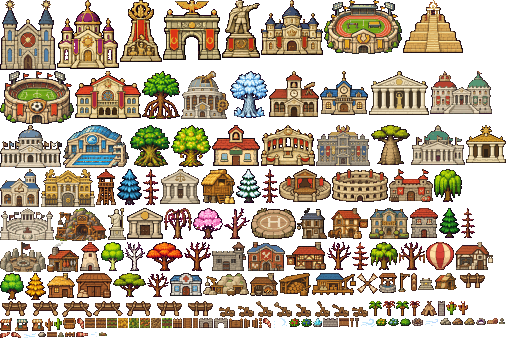
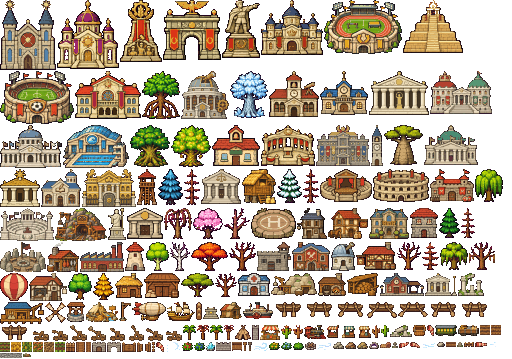
Sprites de la hoja 13: estación, fábrica, torre del reloj, observatorio, embajada, ruinas, tren, dirigible, galeón y vapor (medio hundidos, con olas y estela), carreteras de adoquines, puesto de feria y campamento minero; el humo lo pone el juego

diff --git a/js/arte_mapa.js b/js/arte_mapa.js
@@ -1,2 +1,2 @@
 // Forja de Mundos · Mapa del atlas de arte (generado: no editar a mano). clave: [x, y, ancho, alto, ancla x, llamas?]
-const ART_MAP = {"house:hut":[47,273,28,25,14],"house:piedra":[410,208,28,30,14],"well:pozo":[379,273,18,20,9],"store:almacen":[76,273,36,25,18],"tower:torre":[96,169,20,36,10],"hall:ayuntamiento":[320,71,48,44,24],"market:mercado":[0,318,44,13,22],"bank:banco":[127,208,36,31,18],"hospital:hospital":[170,273,32,23,16],"school:escuela":[212,125,48,41,24],"tavern:taberna":[286,242,40,28,20],"theater:teatro":[279,169,52,33,26],"coliseum:coliseo":[332,169,56,33,28],"barracks:cuartel":[389,169,44,33,22],"tradehall:lonja":[312,273,44,22,22],"quarry:cantera":[203,273,46,23,23],"temple:templo":[466,125,40,38,20],"obelisk:monumento":[108,208,18,32,9],"cathedral:catedral":[0,0,56,70,28],"cathedral:panteon":[369,71,60,44,30],"wonder:republica":[261,125,54,41,27],"wonder:monarquia":[261,0,62,55,31],"wonder:dictadura":[222,0,38,58,19],"wonder:comunismo":[120,0,42,62,21],"wonder:fascismo":[163,0,58,60,29],"wonder:socialismo":[75,71,66,48,33],"wonder:teocracia":[57,0,62,69,31],"altar:altar":[418,273,16,17,8,[5,0,6,6]],"cathedral:zigurat":[403,0,60,53,30,[24,1,12,13]],"forge:herreria":[250,273,28,23,14,[14,17,9,3]],"mill:molino":[80,242,20,29,10],"mill:aspas":[357,273,21,21,10],"oak:forest":[0,273,24,27,12],"oak:forest:bare":[327,242,24,28,12],"pine:pine":[439,208,21,30,10],"pine:pine:bare":[461,208,14,30,7],"pine:snow":[236,169,25,34,12],"pine:snow:bare":[262,169,16,34,8],"acacia:dry":[113,273,33,24,16],"acacia:dry:bare":[147,273,22,24,11],"birch:birch":[101,242,23,29,11],"birch:birch:bare":[125,242,20,29,10],"pine:blue":[117,169,25,36,12],"pine:blue:bare":[143,169,16,36,8],"willow:swamp":[434,169,28,33,14],"willow:swamp:bare":[164,208,28,31,14],"palm:palm":[369,301,13,15,6],"palm:palm:bare":[383,301,12,15,6],"palm:coco":[396,301,13,15,6],"palm:coco:bare":[410,301,10,15,5],"oak:cherry":[193,208,30,31,15],"oak:cherry:bare":[224,208,26,31,13],"pine:autumn":[25,273,21,27,10],"pine:autumn:bare":[352,242,17,28,8],"acacia:sunset":[146,242,37,29,18],"acacia:sunset:bare":[184,242,27,29,13],"willow:moss":[370,242,28,28,14],"willow:moss:bare":[399,242,26,28,13],"cactus:cactus":[54,318,8,12,4],"cactus:cactus:bare":[45,318,8,13,4],"cactus:bloom":[446,301,11,14,5],"cactus:bloom:bare":[458,301,10,14,5],"ancient:elder":[130,125,40,42,20],"ancient:frost":[230,71,38,47,19],"ancient:baobab":[371,125,39,40,19],"ancient:mangrove":[142,71,38,48,19],"ancient:life":[171,125,40,42,20],"bush:red":[289,318,11,9,5],"bush:blueb":[301,318,11,9,5],"bush:goldb":[376,318,11,8,5],"bush:moon":[388,318,11,8,5],"bush:empty":[400,318,11,8,5],"rock:stone":[38,332,8,5,4],"big:stone":[440,318,11,7,5],"ore:iron":[452,318,11,7,5],"ore:gold":[464,318,11,7,5],"gem:amethyst":[476,318,10,7,5],"gem:mana":[313,318,9,9,4],"fire:camp":[412,318,11,8,5],"camp:tienda":[421,301,16,15,8],"camp:estera":[487,318,11,6,5],"boat:0":[458,273,30,16,15],"boat:1":[0,301,30,16,15],"boat:2":[31,301,30,16,15],"boat:3":[62,301,30,16,15],"boat:4":[93,301,30,16,15],"boat:5":[124,301,30,16,15],"boat:6":[155,301,30,16,15],"boat:7":[186,301,30,16,15],"catapult:0":[217,301,18,16,9],"catapult:1":[236,301,18,16,9],"catapult:2":[255,301,18,16,9],"catapult:3":[274,301,18,16,9],"catapult:4":[293,301,18,16,9],"catapult:5":[312,301,18,16,9],"catapult:6":[331,301,18,16,9],"catapult:7":[350,301,18,16,9],"tex:arada":[85,318,10,10,5],"tex:sembrado":[96,318,10,10,5],"tex:brotes":[107,318,10,10,5],"tex:trigo":[118,318,10,10,5],"tex:maiz":[129,318,10,10,5],"tex:mijo":[140,318,10,10,5],"tex:muerta":[151,318,10,10,5],"tex:huerta":[162,318,10,10,5],"tex:empalizada_h":[173,318,9,10,4],"tex:empalizada_v":[411,273,6,18,3],"tex:piedra_h":[323,318,15,9,7],"tex:piedra_v":[438,301,7,15,3],"tex:puente_h":[339,318,10,9,5],"tex:puente_v":[183,318,9,10,4],"tex:puente_h5":[47,332,10,5,5],"tex:puente_v5":[193,318,5,10,2],"gate:piedra":[199,318,14,10,7],"gate:piedra_abierta":[214,318,14,10,7],"gate:madera":[229,318,14,10,7],"gate:madera_abierta":[244,318,14,10,7],"tumba:lapida":[58,332,6,5,3],"tumba:flores":[99,332,8,4,4],"tumba:estela":[499,318,6,6,3],"tex:valla_h":[65,332,10,5,5],"tex:valla_v":[259,318,3,10,1],"antorcha:encendida":[350,318,4,9,2],"antorcha:apagada":[355,318,4,9,2],"balloon:globo":[426,242,28,28,14],"balloon:cesta":[63,318,13,11,6],"aero:pista":[251,208,45,31,22],"aero:palo":[398,273,12,19,2],"sock:0":[76,332,12,5,0],"sock:1":[0,332,10,6,0],"sock:2":[11,332,10,6,0],"sock:3":[263,318,8,10,0],"sock:4":[77,318,7,11,0],"wind:0":[89,332,9,5,4],"wind:1":[22,332,15,6,7],"wind:2":[424,318,15,8,7],"wind:3":[360,318,15,9,7],"wind:4":[272,318,16,10,8],"court:tribunal":[160,169,40,35,20],"jail:carcel":[212,242,34,29,17],"press:imprenta":[455,242,38,28,19],"union:sindicato":[247,242,38,29,19],"parliament:parlamento":[411,125,54,40,27],"academy:academia":[0,169,40,38,20],"wonder:democracia":[0,208,54,33,27],"wonder:partitocracia":[316,125,54,41,27],"wonder:monarquia_parlamentaria":[430,71,62,43,31],"wonder:oligarquia":[41,169,54,38,27],"wonder:tecnocracia":[181,71,48,48,24],"wonder:anarquia":[0,242,46,30,23],"mine:mina":[55,208,52,33,26],"university:universidad":[269,71,50,46,25],"council:consejo":[0,125,62,43,31],"spy:espias":[297,208,30,31,15],"granary:granero":[201,169,34,35,17],"smoke:ahumadero":[47,242,32,30,16],"woodshed:lenera":[279,273,32,23,16],"post:postas":[328,208,40,31,20],"house:mansion":[369,208,40,31,20],"house:chabola":[435,273,22,17,11],"sport:futbol":[0,71,74,53,37],"sport:natacion":[63,125,66,43,33],"sport:atletismo":[324,0,78,54,39]};
+const ART_MAP = {"house:hut":[115,273,28,25,14],"house:piedra":[410,208,28,30,14],"well:pozo":[67,302,18,20,9],"store:almacen":[144,273,36,25,18],"tower:torre":[137,169,20,36,10],"hall:ayuntamiento":[320,71,48,44,24],"market:mercado":[327,325,44,13,22],"bank:banco":[127,208,36,31,18],"hospital:hospital":[238,273,32,23,16],"school:escuela":[212,125,48,41,24],"tavern:taberna":[356,242,40,28,20],"theater:teatro":[320,169,52,33,26],"coliseum:coliseo":[373,169,56,33,28],"barracks:cuartel":[430,169,44,33,22],"tradehall:lonja":[0,302,44,22,22],"quarry:cantera":[271,273,46,23,23],"temple:templo":[0,169,40,38,20],"obelisk:monumento":[108,208,18,32,9],"cathedral:catedral":[0,0,56,70,28],"cathedral:panteon":[369,71,60,44,30],"wonder:republica":[261,125,54,41,27],"wonder:monarquia":[261,0,62,55,31],"wonder:dictadura":[222,0,38,58,19],"wonder:comunismo":[120,0,42,62,21],"wonder:fascismo":[163,0,58,60,29],"wonder:socialismo":[75,71,66,48,33],"wonder:teocracia":[57,0,62,69,31],"altar:altar":[203,302,16,17,8,[5,0,6,6]],"cathedral:zigurat":[403,0,60,53,30,[24,1,12,13]],"forge:herreria":[318,273,28,23,14,[14,17,9,3]],"mill:molino":[125,242,20,29,10],"mill:aspas":[45,302,21,21,10],"oak:forest":[68,273,24,27,12],"oak:forest:bare":[397,242,24,28,12],"pine:pine":[439,208,21,30,10],"pine:pine:bare":[461,208,14,30,7],"pine:snow":[277,169,25,34,12],"pine:snow:bare":[303,169,16,34,8],"acacia:dry":[181,273,33,24,16],"acacia:dry:bare":[215,273,22,24,11],"birch:birch":[146,242,23,29,11],"birch:birch:bare":[170,242,20,29,10],"pine:blue":[158,169,25,36,12],"pine:blue:bare":[184,169,16,36,8],"willow:swamp":[475,169,28,33,14],"willow:swamp:bare":[164,208,28,31,14],"palm:palm":[183,325,13,15,6],"palm:palm:bare":[197,325,12,15,6],"palm:coco":[210,325,13,15,6],"palm:coco:bare":[224,325,10,15,5],"oak:cherry":[193,208,30,31,15],"oak:cherry:bare":[224,208,26,31,13],"pine:autumn":[93,273,21,27,10],"pine:autumn:bare":[422,242,17,28,8],"acacia:sunset":[191,242,37,29,18],"acacia:sunset:bare":[229,242,27,29,13],"willow:moss":[440,242,28,28,14],"willow:moss:bare":[469,242,26,28,13],"cactus:cactus":[381,325,8,12,4],"cactus:cactus:bare":[372,325,8,13,4],"cactus:bloom":[281,325,11,14,5],"cactus:bloom:bare":[293,325,10,14,5],"ancient:elder":[130,125,40,42,20],"ancient:frost":[230,71,38,47,19],"ancient:baobab":[384,125,39,40,19],"ancient:mangrove":[142,71,38,48,19],"ancient:life":[171,125,40,42,20],"bush:red":[182,342,11,9,5],"bush:blueb":[194,342,11,9,5],"bush:goldb":[269,342,11,8,5],"bush:moon":[281,342,11,8,5],"bush:empty":[293,342,11,8,5],"rock:stone":[437,342,8,5,4],"big:stone":[333,342,11,7,5],"ore:iron":[345,342,11,7,5],"ore:gold":[357,342,11,7,5],"gem:amethyst":[369,342,10,7,5],"gem:mana":[206,342,9,9,4],"fire:camp":[305,342,11,8,5],"camp:tienda":[235,325,16,15,8],"camp:estera":[380,342,11,6,5],"boat:0":[274,302,30,16,15],"boat:1":[305,302,30,16,15],"boat:2":[336,302,30,16,15],"boat:3":[367,302,30,16,15],"boat:4":[398,302,30,16,15],"boat:5":[429,302,30,16,15],"boat:6":[460,302,30,16,15],"boat:7":[0,325,30,16,15],"catapult:0":[31,325,18,16,9],"catapult:1":[50,325,18,16,9],"catapult:2":[69,325,18,16,9],"catapult:3":[88,325,18,16,9],"catapult:4":[107,325,18,16,9],"catapult:5":[126,325,18,16,9],"catapult:6":[145,325,18,16,9],"catapult:7":[164,325,18,16,9],"tex:arada":[480,325,10,10,5],"tex:sembrado":[491,325,10,10,5],"tex:brotes":[0,342,10,10,5],"tex:trigo":[11,342,10,10,5],"tex:maiz":[22,342,10,10,5],"tex:mijo":[33,342,10,10,5],"tex:muerta":[44,342,10,10,5],"tex:huerta":[55,342,10,10,5],"tex:empalizada_h":[66,342,9,10,4],"tex:empalizada_v":[196,302,6,18,3],"tex:piedra_h":[216,342,15,9,7],"tex:piedra_v":[252,325,7,15,3],"tex:puente_h":[232,342,10,9,5],"tex:puente_v":[76,342,9,10,4],"tex:puente_h5":[446,342,10,5,5],"tex:puente_v5":[86,342,5,10,2],"gate:piedra":[92,342,14,10,7],"gate:piedra_abierta":[107,342,14,10,7],"gate:madera":[122,342,14,10,7],"gate:madera_abierta":[137,342,14,10,7],"tumba:lapida":[457,342,6,5,3],"tumba:flores":[23,353,8,4,4],"tumba:estela":[392,342,6,6,3],"tex:valla_h":[464,342,10,5,5],"tex:valla_v":[152,342,3,10,1],"antorcha:encendida":[243,342,4,9,2],"antorcha:apagada":[248,342,4,9,2],"balloon:globo":[0,273,28,28,14],"balloon:cesta":[413,325,13,11,6],"aero:pista":[251,208,45,31,22],"aero:palo":[119,302,12,19,2],"sock:0":[475,342,12,5,0],"sock:1":[399,342,10,6,0],"sock:2":[410,342,10,6,0],"sock:3":[156,342,8,10,0],"sock:4":[427,325,7,11,0],"wind:0":[488,342,9,5,4],"wind:1":[421,342,15,6,7],"wind:2":[317,342,15,8,7],"wind:3":[253,342,15,9,7],"wind:4":[165,342,16,10,8],"court:tribunal":[201,169,40,35,20],"jail:carcel":[257,242,34,29,17],"press:imprenta":[29,273,38,28,19],"union:sindicato":[292,242,38,29,19],"parliament:parlamento":[424,125,54,40,27],"academy:academia":[41,169,40,38,20],"wonder:democracia":[0,208,54,33,27],"wonder:partitocracia":[316,125,54,41,27],"wonder:monarquia_parlamentaria":[430,71,62,43,31],"wonder:oligarquia":[82,169,54,38,27],"wonder:tecnocracia":[181,71,48,48,24],"wonder:anarquia":[0,242,46,30,23],"mine:mina":[55,208,52,33,26],"university:universidad":[269,71,50,46,25],"council:consejo":[0,125,62,43,31],"spy:espias":[297,208,30,31,15],"granary:granero":[242,169,34,35,17],"smoke:ahumadero":[47,242,32,30,16],"woodshed:lenera":[347,273,32,23,16],"post:postas":[328,208,40,31,20],"house:mansion":[369,208,40,31,20],"house:chabola":[220,302,22,17,11],"sport:futbol":[0,71,74,53,37],"sport:natacion":[63,125,66,43,33],"sport:atletismo":[324,0,78,54,39],"station:estacion":[380,273,44,23,22],"factory:fabrica":[80,242,44,30,22],"clock:reloj":[371,125,12,41,6],"observatory:observatorio":[331,242,24,29,12],"embassy:embajada":[425,273,32,23,16],"ruin:ruinas_a":[458,273,26,23,13],"ruin:ruinas_b":[390,325,22,12,11],"train:locomotora":[304,325,22,14,11],"train:vagon_p":[435,325,22,11,11],"train:vagon_m":[458,325,21,11,10],"airship:dirigible":[132,302,34,19,17],"ship:galeon":[167,302,28,19,14],"ship:vapor":[243,302,30,17,15],"tex:carretera":[0,353,22,5,11],"fair:puesto":[260,325,20,15,10],"camp:oro":[86,302,32,20,16]};

diff --git a/index.html b/index.html
@@ -6,7 +6,7 @@
 <meta name="claude:viewport-fit-sides" content="cover">
 <link rel="preconnect" href="https://fonts.googleapis.com">
 <link rel="stylesheet" href="https://fonts.googleapis.com/css2?family=Pixelify+Sans:wght@400;600&family=Nunito+Sans:wght@400;600;700&display=swap">
-<link rel="stylesheet" href="css/estilo.css?v=202611231854">
+<link rel="stylesheet" href="css/estilo.css?v=202611231915">
 
 <div class="app">
   <section class="stage" id="stage">
@@ -180,67 +180,67 @@
 </div>
 
 <!-- El juego, en el orden en que se carga -->
-<script src="js/nucleo.js?v=202611231854"></script>
-<script src="js/mundo.js?v=202611231854"></script>
-<script src="js/vista.js?v=202611231854"></script>
-<script src="js/clima.js?v=202611231854"></script>
-<script src="js/fauna.js?v=202611231854"></script>
-<script src="js/desastres.js?v=202611231854"></script>
-<script src="js/mapas.js?v=202611231854"></script>
-<script src="js/humanos.js?v=202611231854"></script>
-<script src="js/partidas.js?v=202611231854"></script>
-<script src="js/vida.js?v=202611231854"></script>
-<script src="js/sociedad.js?v=202611231854"></script>
-<script src="js/impuestos.js?v=202611231854"></script>
-<script src="js/presupuestos.js?v=202611231854"></script>
-<script src="js/bolsa.js?v=202611231854"></script>
-<script src="js/vivienda.js?v=202611231854"></script>
-<script src="js/cartografia.js?v=202611231854"></script>
-<script src="js/convivencia.js?v=202611231854"></script>
-<script src="js/credos.js?v=202611231854"></script>
-<script src="js/tratados.js?v=202611231854"></script>
-<script src="js/globos.js?v=202611231854"></script>
-<script src="js/idiomas.js?v=202611231854"></script>
-<script src="js/regimenes.js?v=202611231854"></script>
-<script src="js/instituciones.js?v=202611231854"></script>
-<script src="js/monedas.js?v=202611231854"></script>
-<script src="js/minas.js?v=202611231854"></script>
-<script src="js/justicia.js?v=202611231854"></script>
-<script src="js/sindicatos.js?v=202611231854"></script>
-<script src="js/prensa.js?v=202611231854"></script>
-<script src="js/ciencia.js?v=202611231854"></script>
-<script src="js/consejo.js?v=202611231854"></script>
-<script src="js/espionaje.js?v=202611231854"></script>
-<script src="js/comercio.js?v=202611231854"></script>
-<script src="js/piratas.js?v=202611231854"></script>
-<script src="js/colonias.js?v=202611231854"></script>
-<script src="js/cultura.js?v=202611231854"></script>
-<script src="js/anexiones.js?v=202611231854"></script>
-<script src="js/lluvia.js?v=202611231854"></script>
-<script src="js/estaciones.js?v=202611231854"></script>
-<script src="js/bandidos.js?v=202611231854"></script>
-<script src="js/riqueza.js?v=202611231854"></script>
-<script src="js/noticias.js?v=202611231854"></script>
-<script src="js/defensa.js?v=202611231854"></script>
-<script src="js/trabajo.js?v=202611231854"></script>
-<script src="js/arte_mapa.js?v=202611231854"></script>
-<script src="js/arte.js?v=202611231854"></script>
-<script src="js/vegetacion.js?v=202611231854"></script>
-<script src="js/aldeanos.js?v=202611231854"></script>
-<script src="js/sonido.js?v=202611231854"></script>
-<script src="js/interfaz.js?v=202611231854"></script>
-<script src="js/civilizacion.js?v=202611231854"></script>
-<script src="js/industria.js?v=202611231854"></script>
-<script src="js/ambiente.js?v=202611231854"></script>
-<script src="js/fama.js?v=202611231854"></script>
-<script src="js/guerra.js?v=202611231854"></script>
-<script src="js/rutas.js?v=202611231854"></script>
-<script src="js/rescate.js?v=202611231854"></script>
-<script src="js/deportes.js?v=202611231854"></script>
-<script src="js/leyes.js?v=202611231854"></script>
-<script src="js/volcanes.js?v=202611231854"></script>
-<script src="js/edificios.js?v=202611231854"></script>
-<script src="js/calendario.js?v=202611231854"></script>
-<script src="js/titulares.js?v=202611231854"></script>
-<script src="js/libro.js?v=202611231854"></script>
-<script src="js/ui.js?v=202611231854"></script>
+<script src="js/nucleo.js?v=202611231915"></script>
+<script src="js/mundo.js?v=202611231915"></script>
+<script src="js/vista.js?v=202611231915"></script>
+<script src="js/clima.js?v=202611231915"></script>
+<script src="js/fauna.js?v=202611231915"></script>
+<script src="js/desastres.js?v=202611231915"></script>
+<script src="js/mapas.js?v=202611231915"></script>
+<script src="js/humanos.js?v=202611231915"></script>
+<script src="js/partidas.js?v=202611231915"></script>
+<script src="js/vida.js?v=202611231915"></script>
+<script src="js/sociedad.js?v=202611231915"></script>
+<script src="js/impuestos.js?v=202611231915"></script>
+<script src="js/presupuestos.js?v=202611231915"></script>
+<script src="js/bolsa.js?v=202611231915"></script>
+<script src="js/vivienda.js?v=202611231915"></script>
+<script src="js/cartografia.js?v=202611231915"></script>
+<script src="js/convivencia.js?v=202611231915"></script>
+<script src="js/credos.js?v=202611231915"></script>
+<script src="js/tratados.js?v=202611231915"></script>
+<script src="js/globos.js?v=202611231915"></script>
+<script src="js/idiomas.js?v=202611231915"></script>
+<script src="js/regimenes.js?v=202611231915"></script>
+<script src="js/instituciones.js?v=202611231915"></script>
+<script src="js/monedas.js?v=202611231915"></script>
+<script src="js/minas.js?v=202611231915"></script>
+<script src="js/justicia.js?v=202611231915"></script>
+<script src="js/sindicatos.js?v=202611231915"></script>
+<script src="js/prensa.js?v=202611231915"></script>
+<script src="js/ciencia.js?v=202611231915"></script>
+<script src="js/consejo.js?v=202611231915"></script>
+<script src="js/espionaje.js?v=202611231915"></script>
+<script src="js/comercio.js?v=202611231915"></script>
+<script src="js/piratas.js?v=202611231915"></script>
+<script src="js/colonias.js?v=202611231915"></script>
+<script src="js/cultura.js?v=202611231915"></script>
+<script src="js/anexiones.js?v=202611231915"></script>
+<script src="js/lluvia.js?v=202611231915"></script>
+<script src="js/estaciones.js?v=202611231915"></script>
+<script src="js/bandidos.js?v=202611231915"></script>
+<script src="js/riqueza.js?v=202611231915"></script>
+<script src="js/noticias.js?v=202611231915"></script>
+<script src="js/defensa.js?v=202611231915"></script>
+<script src="js/trabajo.js?v=202611231915"></script>
+<script src="js/arte_mapa.js?v=202611231915"></script>
+<script src="js/arte.js?v=202611231915"></script>
+<script src="js/vegetacion.js?v=202611231915"></script>
+<script src="js/aldeanos.js?v=202611231915"></script>
+<script src="js/sonido.js?v=202611231915"></script>
+<script src="js/interfaz.js?v=202611231915"></script>
+<script src="js/civilizacion.js?v=202611231915"></script>
+<script src="js/industria.js?v=202611231915"></script>
+<script src="js/ambiente.js?v=202611231915"></script>
+<script src="js/fama.js?v=202611231915"></script>
+<script src="js/guerra.js?v=202611231915"></script>
+<script src="js/rutas.js?v=202611231915"></script>
+<script src="js/rescate.js?v=202611231915"></script>
+<script src="js/deportes.js?v=202611231915"></script>
+<script src="js/leyes.js?v=202611231915"></script>
+<script src="js/volcanes.js?v=202611231915"></script>
+<script src="js/edificios.js?v=202611231915"></script>
+<script src="js/calendario.js?v=202611231915"></script>
+<script src="js/titulares.js?v=202611231915"></script>
+<script src="js/libro.js?v=202611231915"></script>
+<script src="js/ui.js?v=202611231915"></script>

diff --git a/js/industria.js b/js/industria.js
@@ -48,9 +48,11 @@ function paintRoads(){
   for (const i of S) {
     const px = (i % W) * T, py = ((i / W) | 0) * T; if (px + T < x0 || px > x1 || py + T < y0 || py > y1) continue;
     const tx = i % W, ty = (i / W) | 0, L = S.has(i - 1) || bridgeSet.has(i - 1), R = S.has(i + 1) || bridgeSet.has(i + 1), U = S.has(i - W), D = S.has(i + W);
-    vctx.fillStyle = '#9a948a'; vctx.fillRect(px, py, T, T);
-    vctx.fillStyle = '#7c766c'; vctx.fillRect(px, py + 2, T, 1); vctx.fillRect(px + ((tx + ty) % 2 ? 1 : 3), py, 1, 2); vctx.fillRect(px + ((tx + ty) % 2 ? 3 : 1), py + 3, 1, 2); // adoquines
-    vctx.fillStyle = '#b4aea2'; vctx.fillRect(px + (i % 3), py + 1, 1, 1);
+    if (!artFill(vctx, 'tex:carretera', px, py, T, T)) { // adoquines del atlas; si no está, dibujados a mano
+      vctx.fillStyle = '#9a948a'; vctx.fillRect(px, py, T, T);
+      vctx.fillStyle = '#7c766c'; vctx.fillRect(px, py + 2, T, 1); vctx.fillRect(px + ((tx + ty) % 2 ? 1 : 3), py, 1, 2); vctx.fillRect(px + ((tx + ty) % 2 ? 3 : 1), py + 3, 1, 2);
+      vctx.fillStyle = '#b4aea2'; vctx.fillRect(px + (i % 3), py + 1, 1, 1);
+    }
     vctx.fillStyle = '#5c574f'; if (!L) vctx.fillRect(px, py, 1, T); if (!R) vctx.fillRect(px + T - 1, py, 1, T); if (!U) vctx.fillRect(px, py, T, 1); if (!D) vctx.fillRect(px, py + T - 1, T, 1); // bordillo
     snowTile(i, px, py);
   }
@@ -120,7 +122,7 @@ function drawStation(x, y, g, now){
   if (zoom >= 2) { vctx.font = 'bold 4px sans-serif'; vctx.textAlign = 'center'; vctx.fillStyle = '#22201e'; vctx.fillRect(x - 10, y - 25, 21, 5); vctx.fillStyle = '#f8e080'; vctx.fillText(g.name.slice(0, 12), x + .5, y - 21.3); vctx.textAlign = 'start'; } // letrero
 }
 function drawTrain(x, y, ux, uy, now){
-  if (artFrame('train:locomotora')) { const flip = ux < 0; for (let k = 2; k >= 0; k--) artAt(k ? (k === 1 ? 'train:vagon_p' : 'train:vagon_m') : 'train:locomotora', x - ux * k * 12, y - uy * k * 12, flip); if (Math.random() < .35) chips.push({ x:x + ux * 3, y:y - 12, vx:-ux * 8, vy:-6, life:0, max:1.1, col:'rgba(210,210,205,.7)' }); return; }
+  if (artFrame('train:locomotora')) { const flip = ux < 0; for (let k = 2; k >= 0; k--) artAt(k ? (k === 1 ? 'train:vagon_p' : 'train:vagon_m') : 'train:locomotora', x - ux * k * 23, y - uy * k * 23, flip); if (Math.random() < .4) chips.push({ x:x + (flip ? -3 : 3), y:y - 15, vx:-ux * 9 + (Math.random() - .5) * 3, vy:-6 - Math.random() * 3, life:0, max:1.2, col:'rgba(215,215,210,.75)' }); return; } // (humo: lo pone el juego)
   const parts = [['#22201e', '#3a3a40'], ['#8a3a2a', '#a8583a'], ['#2a5a3a', '#3a7a4a']]; // locomotora y dos vagones
   for (let k = parts.length - 1; k >= 0; k--) {
     const cx = x - ux * k * 9, cy = y - uy * k * 9, [c1, c2] = parts[k];
@@ -161,7 +163,15 @@ function drawObservatory(x, y, now){
 }
 // Barcos en las rutas por mar: galeón (o vapor) con las velas del color del país
 function drawShip(x, y, dir, steam, col, now){
-  if (artAt(steam ? 'ship:vapor' : 'ship:galeon', x, y + 2, dir < 0)) return;
+  const sk = steam ? 'ship:vapor' : 'ship:galeon', sc = artFrame(sk);
+  if (sc) { // el casco, medio metido en el agua: se pinta solo lo que asoma y una línea de olas encima
+    const f = ART_MAP[sk], w = f[2], h = f[3], vis = Math.round(h * .8), bx = Math.round(x) - f[4], by = Math.round(y) + 2 - vis, bob = Math.round(Math.sin(now / 500 + x) * .6);
+    if (dir < 0) { vctx.save(); vctx.translate(Math.round(x), 0); vctx.scale(-1, 1); vctx.drawImage(sc, 0, 0, w, vis, -f[4], by + bob, w, vis); vctx.restore(); } else vctx.drawImage(sc, 0, 0, w, vis, bx, by + bob, w, vis);
+    const wl = Math.round(y) + 2 + bob; vctx.fillStyle = 'rgba(225,242,255,.8)'; for (let k = 0; k < w; k += 2) vctx.fillRect(bx + k, wl - ((k / 2 + Math.floor(now / 250)) % 2), 2, 1); // olas contra el casco
+    vctx.fillStyle = 'rgba(225,242,255,.45)'; for (let k = 1; k < 4; k++) vctx.fillRect(Math.round(x) - (dir >= 0 ? 1 : -1) * (f[4] + k * 4), wl + (k % 2), 3, 1); // estela
+    if (steam && Math.random() < .3) chips.push({ x:x + (dir >= 0 ? 1 : -1), y:by + bob, vx:-(dir >= 0 ? 1 : -1) * 6, vy:-5, life:0, max:1.3, col:'rgba(90,90,95,.6)' }); // humo de la chimenea
+    return;
+  }
   const s = dir >= 0 ? 1 : -1;
   vctx.fillStyle = 'rgba(0,0,0,.2)'; vctx.fillRect(x - 7, y + 1, 15, 1);
   vctx.fillStyle = '#22201e'; vctx.fillRect(x - 7, y - 3, 15, 4); vctx.fillStyle = steam ? '#3a3a40' : '#7a4a28'; vctx.fillRect(x - 6, y - 2, 13, 2); vctx.fillStyle = steam ? '#c83a2a' : '#a86a38'; vctx.fillRect(x - 6, y - 3, 13, 1);

diff --git a/js/civilizacion.js b/js/civilizacion.js
@@ -144,7 +144,7 @@ function drawEmbassies(now){
     if (!g.embassies || !popOf(g)) continue;
     for (const [id, E] of Object.entries(g.embassies)) {
       const o = villageById(+id), x = E.x * T + 2, y = E.y * T + 3; if (!o || !onScreen(x, y)) continue;
-      if (artAt('embassy:embajada', x, y)) { const f = nationOf(o).flag, top = y - ART_MAP['embassy:embajada'][3]; vctx.fillStyle = '#4a3018'; vctx.fillRect(x + 9, top - 6, 1, 10); if (f) drawFlag(f, x + 10, top - 6, 7, 5, 1, now); continue; }
+      if (artAt('embassy:embajada', x, y)) { const f = nationOf(o).flag, top = y - ART_MAP['embassy:embajada'][3]; if (f) drawFlag(f, x + 14, top + 3, 7, 5, 1, now); continue; } // (en su mástil)
       vctx.fillStyle = 'rgba(0,0,0,.25)'; vctx.fillRect(x - 7, y + 1, 15, 2);
       vctx.fillStyle = '#22201e'; vctx.fillRect(x - 7, y - 9, 15, 10); vctx.fillStyle = '#ece4d4'; vctx.fillRect(x - 6, y - 8, 13, 8);
       vctx.fillStyle = '#c8c0ae'; for (const dx of [-5, -2, 2, 5]) vctx.fillRect(x + dx, y - 7, 1, 7); // columnas
@@ -184,6 +184,7 @@ function goldTick(g){
 function drawGoldRush(now){
   for (const g of villages) {
     if (!g.goldRush || g.goldRush.over || !popOf(g)) continue; const x = g.fx * T + 14, y = g.fy * T + 6; if (!onScreen(x, y)) continue;
+    if (artAt('camp:oro', x + 4, y + 2)) { if (Math.random() < .06) floats.push({ x:x + 4, y:y - 18, txt:'✦', col:'#f8d850', life:0 }); continue; }
     vctx.fillStyle = '#6e4626'; vctx.fillRect(x - 6, y - 1, 13, 3); vctx.fillStyle = '#f0c840'; for (let k = 0; k < 5; k++) vctx.fillRect(x - 5 + k * 2 + (Math.sin(now / 300 + k) > 0 ? 1 : 0), y - 2, 1, 1); // pepitas
     vctx.fillStyle = '#4a3018'; vctx.fillRect(x + 8, y - 9, 1, 9); vctx.fillStyle = '#a8a8b0'; vctx.fillRect(x + 6, y - 9, 5, 1); // pico
   }

diff --git a/js/globos.js b/js/globos.js
@@ -490,6 +490,8 @@ function drawBalloons(now){
 }
 // Dirigible (con el descubrimiento del dirigible): cigarro alargado con costillas, timones, góndola y hélice
 function drawAirship(col, mouthY, inf, now){
+  const art = tintedArt('airship:dirigible', col);
+  if (art) { const w = art.width * inf, h = art.height * inf; vctx.drawImage(art, -w / 2, mouthY - h + 6, w, h); const sp = Math.abs(Math.sin(now / 40)); vctx.fillStyle = 'rgba(230,220,200,.9)'; vctx.fillRect(-w / 2 - 1, mouthY - h * .3, 1, 1 + 3 * sp); return; } // (hélice girando)
   const L = 26 * inf, Hh = 9 * inf, cy = mouthY - Hh / 2 - 1;
   vctx.fillStyle = '#22201e'; vctx.beginPath(); vctx.ellipse(0, cy, L / 2 + 1, Hh / 2 + 1, 0, 0, Math.PI * 2); vctx.fill();
   vctx.fillStyle = `rgb(${col.join(',')})`; vctx.beginPath(); vctx.ellipse(0, cy, L / 2, Hh / 2, 0, 0, Math.PI * 2); vctx.fill();

diff --git a/js/arte.js b/js/arte.js
@@ -9,7 +9,7 @@ const ART = { img:null, ready:false, cache:new Map() };
   if (typeof ART_MAP === 'undefined') return;
   const im = new Image();
   im.onload = () => { ART.img = im; ART.ready = true; ART.cache.clear(); if (typeof world !== 'undefined' && world && typeof composeRegion === 'function') composeRegion(0, 0, W - 1, H - 1); };
-  im.src = 'arte/atlas.png?v=202611231854';
+  im.src = 'arte/atlas.png?v=202611231915';
 })();
 const ART_DECID = new Set(['oak:forest', 'birch:birch', 'willow:swamp', 'willow:moss', 'acacia:dry', 'acacia:sunset', 'oak:cherry', 'pine:autumn']);
 const ART_EVER = new Set(['pine:pine', 'pine:snow', 'pine:blue', 'ancient:elder', 'ancient:mangrove', 'ancient:life', 'ancient:baobab']);

diff --git a/js/fama.js b/js/fama.js
@@ -66,6 +66,7 @@ function drawFairs(now){
   const [vx0, vy0, vx1, vy1] = visibleRect(); if (F.x < vx0 - 60 || F.x > vx1 + 60 || F.y < vy0 - 60 || F.y > vy1 + 60) return;
   const C = [['#c83a2a', '#f4f0e8'], ['#3a6ab8', '#f4f0e8'], ['#e8b030', '#c83a2a'], ['#5aa84a', '#f4f0e8'], ['#9a50b8', '#f8d850']];
   for (const [x, y, k] of F.stalls) { // puesto: toldo a rayas, mostrador con mercancía
+    if (artAt('fair:puesto', x, y + 1, k % 2 === 1)) continue; // (el dibujo del atlas, si está)
     const [c1, c2] = C[k % C.length];
     vctx.fillStyle = 'rgba(0,0,0,.25)'; vctx.fillRect(x - 5, y + 1, 11, 1);
     vctx.fillStyle = '#6e4626'; vctx.fillRect(x - 5, y - 7, 1, 8); vctx.fillRect(x + 5, y - 7, 1, 8);

diff --git a/herramientas/atlas.py b/herramientas/atlas.py
@@ -213,6 +213,23 @@ if H12:
         pts = [((p['x0'] + p['x1']) // 2, (p['y0'] + p['y1']) // 2) for p in parts if x0 <= (p['x0'] + p['x1']) / 2 < x0 + 512 and y0 <= (p['y0'] + p['y1']) / 2 < y0 + 512 and p['area'] > 150]
         add(key, shrink(cut(H12, pts), w, 64))
 
+# ---- Era industrial (hojas 13A, 13B y 13C) ----
+def box_parts(name, box, min_area=80):  # todas las piezas cuyo centro cae en la caja (sin el marco de la casilla)
+    _, _, parts = sheet(name); x0, y0, x1, y1 = box
+    return cut(name, [((p['x0'] + p['x1']) // 2, (p['y0'] + p['y1']) // 2) for p in parts if x0 <= (p['x0'] + p['x1']) / 2 < x1 and y0 <= (p['y0'] + p['y1']) / 2 < y1 and p['area'] > min_area])
+if os.path.exists(os.path.join(SRC, '13A.png')):
+    for key, box, w in [('station:estacion', (60, 230, 470, 470), 44), ('factory:fabrica', (560, 160, 980, 470), 44), ('clock:reloj', (1190, 80, 1360, 470), 12),
+                        ('observatory:observatorio', (150, 690, 360, 930), 24), ('embassy:embajada', (600, 690, 920, 930), 32),
+                        ('ruin:ruinas_a', (1050, 720, 1270, 930), 26), ('ruin:ruinas_b', (1275, 790, 1480, 930), 22)]:
+        add(key, shrink(box_parts('13A.png', box), w, 48))
+if os.path.exists(os.path.join(SRC, '13B.png')):  # los grandes de la izquierda de cada fila (miran a la derecha)
+    for key, box, w in [('train:locomotora', (22, 25, 250, 178), 22), ('train:vagon_p', (22, 210, 250, 340), 22), ('train:vagon_m', (22, 375, 250, 505), 21),
+                        ('airship:dirigible', (22, 530, 250, 668), 34), ('ship:galeon', (22, 688, 250, 835), 28), ('ship:vapor', (22, 860, 250, 1005), 30)]:
+        add(key, shrink(box_parts('13B.png', box, 40), w, 48))
+if os.path.exists(os.path.join(SRC, '13C.png')):
+    add('tex:carretera', tex('13C.png', (95, 112, 305, 160), 22, 5, True, 12)) # solo los adoquines (el bordillo lo pone el juego)
+    add('fair:puesto', shrink(box_parts('13C.png', (200, 620, 620, 940)), 20, 40)); add('camp:oro', shrink(box_parts('13C.png', (860, 620, 1380, 940)), 32, 48))
+
 # ---- Atlas: en filas, con 1 píxel de separación ----
 keys = list(S); W = 512; x = y = rowh = 0; pos = {}
 for k in sorted(keys, key=lambda k: -S[k]['img'].height):
